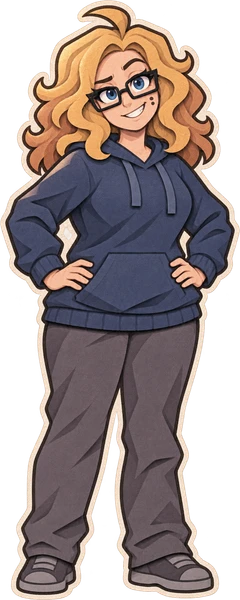
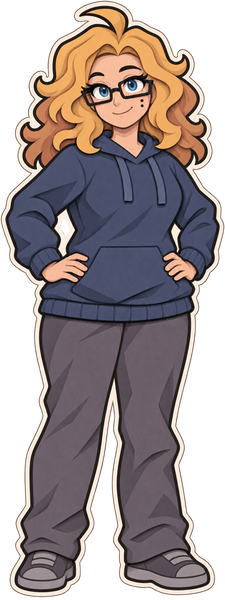
Match Founding picker styling and choose opening host automatically

diff --git a/packages/villages/src/server/features/founding/founding-setup-service.ts b/packages/villages/src/server/features/founding/founding-setup-service.ts
@@ -21,6 +21,7 @@ import {
   readSelectedLorebookIds,
 } from "../../domain/rules/lore-policy.js";
 import { initialOpening } from "../../domain/rules/opening-project.js";
+import { sharedPlayspace } from "../../domain/rules/shared-playspace.js";
 import { influenceSettings } from "../../domain/rules/owned-routine.js";
 import { playerBackgroundForSetup } from "../../domain/rules/player-background.js";
 import { villageCurrentSetting } from "../../domain/rules/prompt-preset.js";
@@ -93,7 +94,6 @@ export function createFoundingSetup({
     setting?: unknown;
     worldRules?: unknown;
     worldName?: unknown;
-    openingVenueId?: unknown;
     playerBackground?: unknown;
     circumstances?: unknown;
     selectedLorebookIds?: unknown;
@@ -119,7 +119,6 @@ export function createFoundingSetup({
     if (typeof (input.worldRules ?? "") !== "string" || String(input.worldRules ?? "").length > 4096)
       throw badRequest("Standing rules must be text of at most 4,096 characters.");
     const worldRules = asTrimmedString(input.worldRules);
-    const openingVenueId = asTrimmedString(input.openingVenueId);
 
     if (input.worldName !== undefined && readWorldName(input.worldName) === null)
       throw badRequest("Use a world name within 120 characters.");
@@ -147,7 +146,7 @@ export function createFoundingSetup({
     if (!Array.isArray(input.venues)) throw badRequest("The setup needs the places you put on the map.");
     const cards = await listVillagerCards();
     const cardNames = new Map(cards.map((card) => [card.id, card.name]));
-    const places = parsePlaces(input.venues, new Set(cardNames.keys()), true, openingVenueId, villageNow());
+    const places = parsePlaces(input.venues, new Set(cardNames.keys()), true, villageNow());
     const privateControllers = places.flatMap(
       (place) => place.zones?.flatMap((zone) => zone.controllerIds ?? []) ?? [],
     );
@@ -212,6 +211,7 @@ export function createFoundingSetup({
     });
 
     const addedResidents: VillagerCard[] = [];
+    const openingRoll = Math.random();
     await mutateVillageState((state) => {
       if (isVillageFounded(state) || villageWorldScope(state) !== villageWorldScope(village))
         throw conflict("The village changed during setup. Reload it before saving.");
@@ -250,7 +250,6 @@ export function createFoundingSetup({
             "founding:" + state.setupAt,
             state.setupAt,
           );
-      state.opening = initialOpening([...assignedResidents], openingVenueId, randomUUID());
       state.foundingPreparation = {
         status: "pending",
         completedIds: [],
@@ -282,6 +281,10 @@ export function createFoundingSetup({
         addedResidents.push(card);
       }
       const at = state.setupAt;
+      const shared = sharedPlayspace(state, villageNow());
+      if (!shared.sufficient) throw badRequest("Provide public shared Zones in at least two Venues.");
+      const openingVenueId = shared.venues[Math.floor(openingRoll * shared.venues.length)]!.venueId;
+      state.opening = initialOpening([...assignedResidents], openingVenueId, randomUUID());
       seedFoundingCircumstances(state, circumstances, ["player", ...assignedResidents], at);
     });
 

diff --git a/packages/villages/src/client/features/founding/FoundingScreen.tsx b/packages/villages/src/client/features/founding/FoundingScreen.tsx
@@ -552,7 +552,7 @@ export function FoundingScreen({
       setMovingSetupVenueId(issue.field === "placement" ? issue.venueId : null);
     };
     const mapReady = !setupMapBusy;
-    const venueShapeProblem = foundingVenueShapeProblem(setupVenues, setupContext.openingVenueId);
+    const venueShapeProblem = foundingVenueShapeProblem(setupVenues);
     const standardHomes = setupVenues.every(
       (venue) => !venue.classes?.includes("residence") || foundingHomeMembers(venue).length === 1,
     );
@@ -1175,8 +1175,6 @@ export function FoundingScreen({
                     />
                   </>
                 }
-                openingVenueId={setupContext.openingVenueId}
-                onOpeningVenue={(openingVenueId) => setSetupContext({ ...setupContext, openingVenueId })}
                 people={wizardVillagers}
                 selectedId={selectedSetupVenueId}
                 busy={setupSuggestionsBusy}
@@ -1297,7 +1295,6 @@ export function FoundingScreen({
                           {venueHasPrivate(venue) ? " / Private" : ""}
                         </summary>
                         <p>{venue.description}</p>
-                        {venue.id === setupContext.openingVenueId ? <p>Opening gathering</p> : null}
                         {venue.residentIds?.length || venue.occupancy.playerHome ? (
                           <p>
                             Household:{" "}
@@ -1360,7 +1357,7 @@ export function FoundingScreen({
                     />
                   </FoundingField>
                   <h3>After founding</h3>
-                  <p>Prepare local routines and optional initial Wishes, then meet at the selected opening Venue.</p>
+                  <p>Prepare local routines and optional initial Wishes, then meet in one of your public locations.</p>
                 </section>
               </div>
             </>

diff --git a/packages/villages/src/client/features/founding/villages-forging-styles.ts b/packages/villages/src/client/features/founding/villages-forging-styles.ts
@@ -601,6 +601,13 @@ export const VILLAGES_FORGING_STYLES = `
 .villages-forging-v2 .villages-founding-overlay>dialog:not(.villages-quick-dialog,[data-scroll-body=true]) { overflow:auto; }
 .villages-founding-roster-dialog>input { flex:none; }
 .villages-founding-roster-dialog>.villages-people-choices { min-height:0; overflow:auto; overscroll-behavior:contain; }
+.villages-forging-v2 .villages-founding-overlay>dialog.villages-founding-roster-dialog { border:1px solid #a68091a6; border-radius:1rem; color:#f0dfbc; background:linear-gradient(155deg,#3b3149fa,#292438fa); box-shadow:0 1rem 3rem #170f2870; }
+.villages-forging-v2 .villages-founding-roster-dialog>:is(header,footer) { color:inherit; background:transparent; border-color:#ad839b45; }
+.villages-forging-v2 .villages-founding-roster-dialog input { color:#f0dfbc; background:#30283e; border-color:#9b768c8c; }
+.villages-forging-v2 .villages-founding-roster-dialog .villages-people-identity { color:#f0dfbc; background:#3c304966; border-color:#9b768c; }
+.villages-forging-v2 .villages-founding-roster-dialog .villages-people-identity small { color:inherit; opacity:.75; }
+.villages-forging-v2 .villages-founding-roster-dialog button { color:#f0dfbc; background:#514157; border-color:#a87788; }
+.villages-forging-v2 .villages-founding-roster-dialog button.villages-forging-primary { color:#292938; background:#a5ac8b; border-color:#a5ac8b; }
 .villages-forging-v2 .villages-founding-overlay>dialog[data-compact=true] { width:min(26rem,100%); max-height:100%; }
 .villages-forging-v2 .villages-founding-overlay>dialog.villages-quick-dialog { width:min(92rem,100%); height:min(48rem,100%); }
 @media(max-width:1000px) { .villages-founding-overlay { padding:0; } .villages-forging-v2 .villages-founding-overlay>dialog.villages-quick-dialog { width:100%; height:100%; } }

diff --git a/packages/villages/src/client/features/founding/QuickStartVenues.tsx b/packages/villages/src/client/features/founding/QuickStartVenues.tsx
@@ -34,8 +34,6 @@ export function QuickStartVenues({
   onMapOpened,
   onGenerateImage,
   onUploadImage,
-  openingVenueId,
-  onOpeningVenue,
   actions,
   onRetrySaving,
 }: {
@@ -58,8 +56,6 @@ export function QuickStartVenues({
   onMapOpened?(): void;
   onGenerateImage(venue: VillageVenue, area: "exterior" | "interior" | "private", zoneId?: string): void;
   onUploadImage(venue: VillageVenue, area: "exterior" | "interior" | "private", file: File, zoneId?: string): void;
-  openingVenueId?: string;
-  onOpeningVenue?(venueId: string): void;
   actions?: ReactNode;
   onRetrySaving?(): void;
 }) {
@@ -290,22 +286,6 @@ export function QuickStartVenues({
                   locked
                   nameOfCharacter={(id) => actors.find((actor) => actor.id === id)?.name ?? "Resident"}
                 />
-                {onOpeningVenue &&
-                selected.spaces?.some(
-                  (zone) =>
-                    zone.venueClass !== "residence" &&
-                    (!zone.access || (zone.access.mode === "public" && !zone.access.accompanied)),
-                ) ? (
-                  <button
-                    type="button"
-                    className={P + "-button"}
-                    disabled={busy || imageBusy}
-                    aria-pressed={selected.id === openingVenueId}
-                    onClick={() => onOpeningVenue(selected.id)}
-                  >
-                    Opening gathering
-                  </button>
-                ) : null}
               </>
             ) : null}
             {section === "manage" && !connectionsOpen ? (

diff --git a/packages/villages/src/server/domain/rules/founding-record.ts b/packages/villages/src/server/domain/rules/founding-record.ts
@@ -13,7 +13,7 @@ import { validVenueClasses } from "./venue-model.js";
 import { accessibleVenueRoute } from "./venue-path.js";
 import { readVenueImageContext } from "./village-projections.js";
 import { readZoneLayout } from "../../../shared/helpers/zone-layout.js";
-import { assertSharedPlayspace, sharedPlayspace } from "./shared-playspace.js";
+import { assertSharedPlayspace } from "./shared-playspace.js";
 import { captureZoneObservation } from "./zone-observation.js";
 
 export function foundingImage(value: unknown): VillageVenueImage | null {
@@ -149,7 +149,6 @@ export function parsePlaces(
   value: unknown,
   residents: ReadonlySet<string>,
   founding: true,
-  openingVenueId: string,
   at = new Date(),
 ): VillageVenue[] {
   if (!founding) throw badRequest("Establish starting Venues through Founding.");
@@ -159,7 +158,7 @@ export function parsePlaces(
     seen = new Set<string>(),
     names = new Set<string>();
   let playerHomes = 0;
-  const shapeProblem = foundingVenueShapeProblem(venues, openingVenueId);
+  const shapeProblem = foundingVenueShapeProblem(venues);
   if (shapeProblem) throw badRequest(shapeProblem);
   for (const venue of venues) {
     if (seen.has(venue.id) || names.has(venue.name.toLowerCase()))
@@ -197,8 +196,6 @@ export function parsePlaces(
     projects: [],
   };
   assertSharedPlayspace(sharedWorld, at);
-  if (!sharedPlayspace(sharedWorld, at).venues.some((venue) => venue.venueId === openingVenueId))
-    throw badRequest("Choose an accessible public Venue for the opening gathering.");
   return venues;
 }
 

diff --git a/tests/villages-founding-setup-ownership.regression.ts b/tests/villages-founding-setup-ownership.regression.ts
@@ -343,6 +343,32 @@ for (const invalid of ["missing-purpose", "layout-mismatch"]) {
 }
 
 const direct = fixture("Direct");
+for (const [roll, expected] of [
+  [0, "hall"],
+  [0.999999, "garden"],
+] as const) {
+  const automatic = fixture("Automatic opening");
+  automatic.state.seed = "opening-selection";
+  automatic.retryWith(() => {});
+  const originalRandom = Math.random;
+  let rolls = 0;
+  Math.random = () => {
+    rolls++;
+    return rolls === 1 ? roll : 1 - roll;
+  };
+  try {
+    await automatic.service.runVillageSetup(input("Automatic opening"));
+    assert.equal(automatic.state.opening?.openingVenueId, expected);
+    const rollsAfterSetup = rolls;
+    assert.equal(automatic.attempts[0]!.opening?.openingVenueId, expected);
+    assert.equal(automatic.attempts[1]!.opening?.openingVenueId, expected, "A save retry retains the same host");
+    await assert.rejects(automatic.service.runVillageSetup(input("Automatic opening")), /already founded/);
+    assert.equal(rolls, rollsAfterSetup, "A replay does not reroll the saved opening");
+    assert.equal(automatic.state.opening?.openingVenueId, expected);
+  } finally {
+    Math.random = originalRandom;
+  }
+}
 for (const setting of ["A farm", "An abandoned farm"]) {
   const everyday = fixture("Everyday");
   const payload = { ...input("Everyday"), setting };

diff --git a/tests/villages-founding-quick-start.regression.ts b/tests/villages-founding-quick-start.regression.ts
@@ -570,7 +570,7 @@ console.log(
   const collision = separateFoundingTemplates(["a"], "founding-home:a");
   assert.equal(new Set(collision.map((row) => row.id)).size, 4, "Opening IDs never collide with replacement homes");
   assert.equal(separate.length, 6);
-  const stored = parsePlaces(separate, new Set(["a", "b", "c"]), true, "community");
+  const stored = parsePlaces(separate, new Set(["a", "b", "c"]), true);
   assert.ok(
     stored
       .filter((row) => row.classes?.includes("residence"))
@@ -588,7 +588,6 @@ console.log(
       ),
       new Set(["a", "b", "c"]),
       true,
-      "community",
     ),
   );
   for (const ordinary of [
@@ -602,7 +601,7 @@ console.log(
         : row,
     ),
   ])
-    assert.doesNotThrow(() => parsePlaces(ordinary, new Set(["a", "b", "c"]), true, "community"));
+    assert.doesNotThrow(() => parsePlaces(ordinary, new Set(["a", "b", "c"]), true));
   for (const opening of ["founding-garden", "founding-home:a"]) {
     const replacement = separateFoundingTemplates(["a"], opening);
     assert.equal(new Set(replacement.map((row) => row.id)).size, replacement.length);

diff --git a/tests/villages-founding-homes.regression.ts b/tests/villages-founding-homes.regression.ts
@@ -121,7 +121,7 @@ const placed = restored.map((row: any, index: number) => ({
 const establishedHome = parsePlace(placed[0]);
 assert.equal(establishedHome.destinations!.a.sleep, "ada-room");
 assert.equal(establishedHome.destinations!.player.sleep, "common:base");
-assert.throws(() => parsePlaces(placed, new Set(["a", "b"]), true, "community"), /one assigned resident/);
+assert.throws(() => parsePlaces(placed, new Set(["a", "b"]), true), /one assigned resident/);
 const shared = changeFoundingZoneOwner(restored[0], "ada-room", "");
 assert.equal(shared.destinations!.a.sleep, "ada-room");
 assert.equal(shared.spaces!.find((zone) => zone.id === "ada-room")!.access!.mode, "permission-required");
@@ -247,7 +247,6 @@ assert.doesNotThrow(() =>
     })),
     new Set(["a", "b"]),
     true,
-    "community",
   ),
 );
 console.log("Founding homes: fixed starting households, legacy access, sleeping and draft persistence passed.");

diff --git a/packages/villages/src/shared/helpers/founding-venues.ts b/packages/villages/src/shared/helpers/founding-venues.ts
@@ -1,8 +1,7 @@
 import type { VillageVenue } from "../contracts/village.js";
 
-export function foundingVenueShapeProblem(venues: readonly VillageVenue[], openingId: string): string {
-  if (venues.length > 16 || !venues.some((venue) => venue.id === openingId))
-    return "Choose an opening gathering Venue among at most sixteen Venues.";
+export function foundingVenueShapeProblem(venues: readonly VillageVenue[]): string {
+  if (!venues.length || venues.length > 16) return "Provide between one and sixteen starting Venues.";
   if (venues.filter((venue) => venue.classes?.includes("residence")).length > 4)
     return "Founding supports at most four Residences.";
   if (venues.some((venue) => !venue.classes?.length || venue.classes.length > 2))

diff --git a/packages/villages/src/server/features/founding/routes.ts b/packages/villages/src/server/features/founding/routes.ts
@@ -26,7 +26,6 @@ export function registerFoundingRoutes(engine: FastifyInstance) {
       setting?: unknown;
       worldRules?: unknown;
       worldName?: unknown;
-      openingVenueId?: unknown;
       playerBackground?: unknown;
       circumstances?: unknown;
       selectedLorebookIds?: unknown;
@@ -55,7 +54,6 @@ export function registerFoundingRoutes(engine: FastifyInstance) {
         setting: body.setting,
         worldRules: body.worldRules,
         worldName: body.worldName,
-        openingVenueId: body.openingVenueId,
         playerBackground: body.playerBackground,
         circumstances: body.circumstances,
         selectedLorebookIds: body.selectedLorebookIds,

diff --git a/packages/villages/src/client/features/founding/controller-hooks.tsx b/packages/villages/src/client/features/founding/controller-hooks.tsx
@@ -429,7 +429,7 @@ export function useFoundingSetupBlocker(ports: {
         return "Place every starting Venue.";
       if (!snapshot?.isFounded && !setupMapReviewed && !reviewingMap) return "Check the Venue positions on the map.";
 
-      const shapeProblem = foundingVenueShapeProblem(setupVenues, setupContext.openingVenueId);
+      const shapeProblem = foundingVenueShapeProblem(setupVenues);
       if (!snapshot?.isFounded && shapeProblem) return shapeProblem;
       const residences = setupVenues.filter((venue) => venue.classes?.includes("residence"));
       const villagerHomes = residences;

diff --git a/packages/villages/src/server/features/founding/founding-drafts-service.ts b/packages/villages/src/server/features/founding/founding-drafts-service.ts
@@ -216,7 +216,7 @@ export function createFoundingDrafts(ports: FoundingDraftsServicePorts) {
       rows.some((row) => row.residentIds.length + Number(row.playerHome) > 4)
     )
       throw badRequest(
-        "Assign homes for one to three residents and choose an opening gathering Venue before suggestions.",
+        "Assign homes for one to three residents and include a public gathering Venue before suggestions.",
       );
     const targetId = asTrimmedString(input.targetVenueId);
     if (targetId && !rows.some((row) => row.id === targetId))
